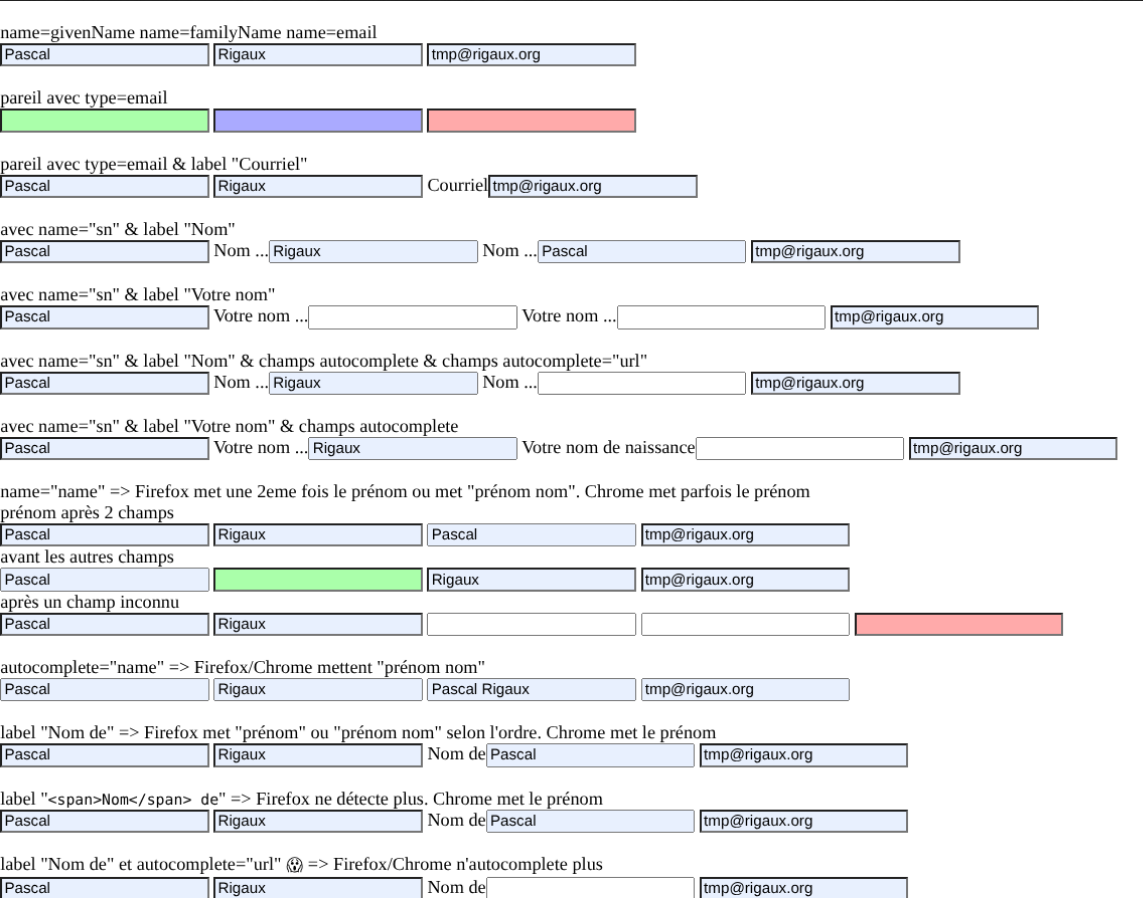
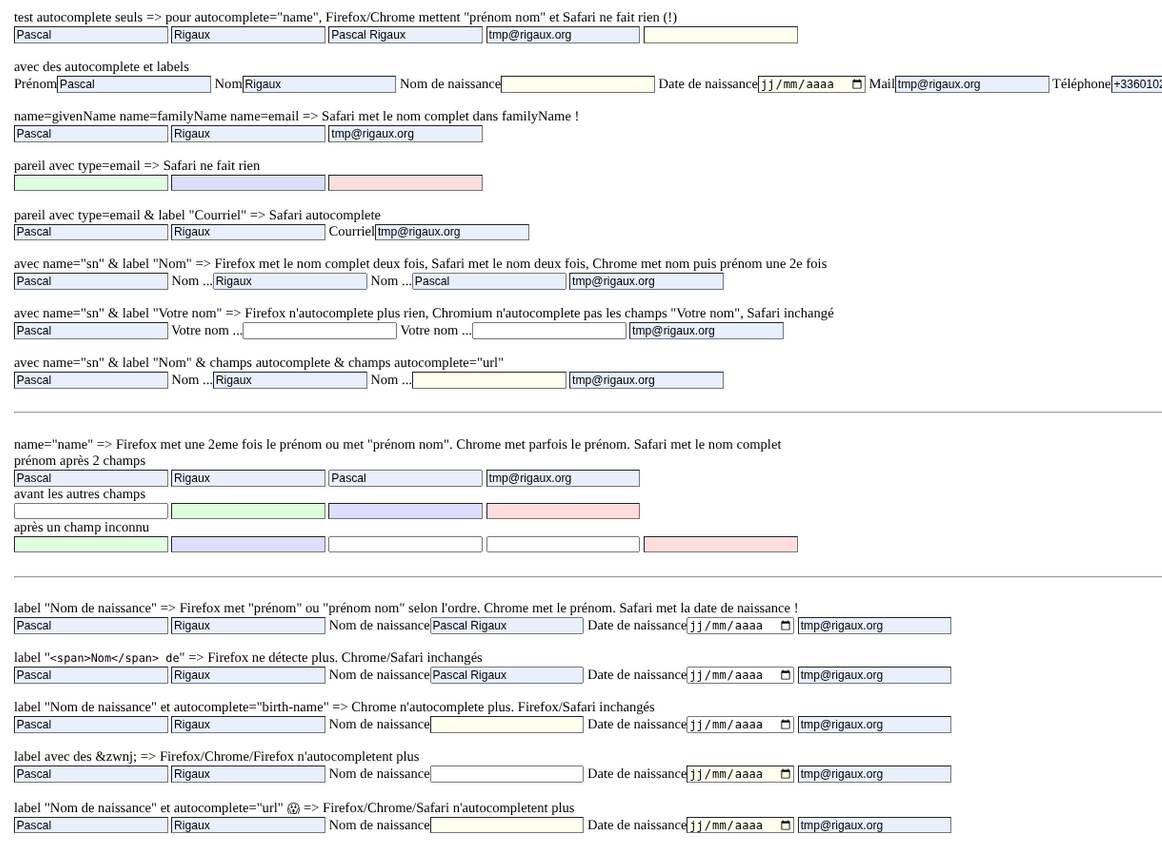
add browser-autofill-birthname

Changed region(s): [[0.0, 0.0, 1.0, 1.0]]

diff --git a/browser-autofill-birthname/test.html b/browser-autofill-birthname/test.html
@@ -2,12 +2,33 @@
 <html>
   <meta http-equiv="Content-Type" content="text/html; charset=utf-8">
     <style>
-        input[name=givenName] { background: #afa }
-        input[name=familyName] { background: #aaf }
-        input[name=email], input[type=email] { background: #faa }
+        html { padding: 1rem; }
+        input[autocomplete] { background: #ffe }
+        input[name=givenName] { background: #dfd }
+        input[name=familyName] { background: #ddf }
+        input[name=email], input[type=email] { background: #fdd }
     </style>
 
-    <br>name=givenName name=familyName name=email<br>
+    <br>test autocomplete seuls => pour autocomplete="name", Firefox/Chrome mettent "prénom nom" et Safari ne fait rien (!)<br>
+    <form>
+        <input name="x1" autocomplete="given-name">
+        <input name="x2" autocomplete="family-name">
+        <input name="x3" autocomplete="name">
+        <input name="x4" autocomplete="email">
+        <input name="x5" autocomplete="bday">
+    </form>
+
+    <br>avec des autocomplete et labels<br>
+    <form>
+        <label>Prénom<input name="givenName" autocomplete="given-name"></label>
+        <label>Nom<input name="familyName" autocomplete="family-name"></label>
+        <label>Nom de naissance<input name="birthName" type="text" autocomplete="birth-name"></label>
+        <label>Date de naissance<input type="date" name="birthDate" autocomplete="bday"></label>
+        <label>Mail<input name="email" type="email" autocomplete="email"></label>
+        <label>Téléphone<input name="phone" autocomplete="tel"></label>
+    </form>
+
+    <br>name=givenName name=familyName name=email => Safari met le nom complet dans familyName !<br>
 
     <form>
         <input name="givenName">
@@ -15,21 +36,21 @@
         <input name="email">
     </form>
 
-    <br>pareil avec type=email<br>
+    <br>pareil avec type=email => Chrome/Safari ne font rien<br>
     <form>
         <input name="givenName">
         <input name="familyName">
         <input name="foo" type="email">
     </form>
 
-    <br>pareil avec type=email & label "Courriel"<br>
+    <br>pareil avec type=email & label "Courriel" => Safari autocomplete<br>
     <form>
         <input name="givenName">
         <input name="familyName">
         <label>Courriel<input name="foo" type="email"></label>
     </form>
 
-    <br>avec name="sn" & label "Nom"<br>
+    <br>avec name="sn" & label "Nom" => Firefox met le nom complet deux fois, Safari met le nom deux fois, Chrome met nom puis prénom une 2e fois<br>
     <form>
         <input name="givenName" autocomplete="given-name">
         <label>Nom ...<input name="sn"></label>
@@ -37,7 +58,7 @@
         <input name="email" autocomplete="email">
     </form>
 
-    <br>avec name="sn" & label "Votre nom"<br>
+    <br>avec name="sn" & label "Votre nom" => Firefox n'autocomplete plus rien, Chromium n'autocomplete pas les champs "Votre nom", Safari inchangé<br>
     <form>
         <input name="givenName" autocomplete="given-name">
         <label>Votre nom ...<input name="sn"></label>
@@ -52,16 +73,10 @@
         <label>Nom ...<input name="xxx" autocomplete="url"></label>
         <input name="email" autocomplete="email">
     </form>
-    
-    <br>avec name="sn" & label "Votre nom" & champs autocomplete<br>
-    <form>
-        <input name="givenName" autocomplete="given-name">
-        <label>Votre nom ...<input name="sn" autocomplete="family-name"></label>
-        <label>Votre nom de naissance<input name="xxx"></label>
-        <input name="email" autocomplete="email">
-    </form>
-    
-    <br>name="name" => Firefox met une 2eme fois le prénom ou met "prénom nom". Chrome met parfois le prénom<br>
+
+    <br><hr>
+
+    <br>name="name" => Firefox met une 2eme fois le prénom ou met "prénom nom". Chrome met parfois le prénom. Safari met le nom complet<br>
     prénom après 2 champs<br>
     <form>
         <input name="givenName">
@@ -85,44 +100,51 @@
         <input name="email">
     </form>
 
-    <br>autocomplete="name" => Firefox/Chrome mettent "prénom nom"<br>
-    <form>
-        <input autocomplete="given-name">
-        <input autocomplete="family-name">
-        <input autocomplete="name">
-        <input autocomplete="email">
-    </form>
+    <br><hr>
 
-    <br>label "Nom de" => Firefox met "prénom" ou "prénom nom" selon l'ordre. Chrome met le prénom<br>
+    <br>label "Nom de naissance" => Firefox met "prénom" ou "prénom nom" selon l'ordre. Chrome met le prénom. Safari met la date de naissance !<br>
     <form>
         <input name="givenName">
         <input name="familyName">
-        <label>Nom de<input name="xxx2"></label>
+        <label>Nom de naissance<input name="xxx2"></label>
+        <label>Date de naissance<input type="date" name="birthDate"></label>
         <input name="email">
     </form>
   
-    <br>label "<tt>&lt;span&gt;Nom&lt;/span&gt; de</tt>" => Firefox ne détecte plus. Chrome met le prénom<br>
+    <br>label "<tt>&lt;span&gt;Nom&lt;/span&gt; de</tt>" => Firefox ne détecte plus. Chrome/Safari inchangés<br>
     <form>
         <input name="givenName">
         <input name="familyName">
-        <label><span>Nom</span> de<input name="xxx2"></label>
+        <label><span>Nom</span> de naissance<input name="xxx2"></label>
+        <label>Date de naissance<input type="date" name="birthDate"></label>
         <input name="email">
     </form>
 
-    <br>label "<tt>&lt;span&gt;Nom&lt;/span&gt; de</tt>" et autocomplete="birth-name" => Firefox/Chrome n'autocomplete plus<br>
+    <br>label "Nom de naissance" et autocomplete="birth-name" => Chrome n'autocomplete plus. Firefox/Safari inchangés<br>
     <form>
         <input name="givenName">
         <input name="familyName">
-        <label><span>Nom</span> de<input name="xxx2" autocomplete="birth-name"></label>
+        <label>Nom de naissance<input name="xxx2" autocomplete="birth-name"></label>
+        <label>Date de naissance<input type="date" name="birthDate"></label>
+        <input name="email">
+    </form>
+  
+    <br>label avec des &amp;zwnj; => Firefox/Chrome/Firefox n'autocompletent plus<br>
+    <form>
+        <input name="givenName">
+        <input name="familyName">
+        <label>N&zwnj;om de n&zwnj;aissance<input name="xxx2"></label>
+        <label>Date de naissance<input type="date" name="birthDate" autocomplete="bday"></label>
         <input name="email">
     </form>
 
-    <br>label "Nom de" et autocomplete="url" 😱 => Firefox/Chrome n'autocomplete plus<br>
+    <br>label "Nom de naissance" et autocomplete="url" 😱 => Firefox/Chrome/Safari n'autocompletent plus<br>
     <form>
         <input name="givenName">
         <input name="familyName">
-        <label>Nom de<input name="xxx2" autocomplete="url"></label>
+        <label>Nom de naissance<input name="xxx2" autocomplete="url"></label>
+        <label>Date de naissance<input type="date" name="birthDate" autocomplete="bday"></label>
         <input name="email">
     </form>  
-    
+
 </html>

diff --git a/browser-autofill-birthname/README.md b/browser-autofill-birthname/README.md
@@ -1,17 +1,24 @@
 Browser address autofill can sometimes do weird things: by default it tries to guess if an `<input>` should be autofilled, using `name` attribute, or `<label>` string.
 
-If `<label>` starts with "Name" (or "Nom" en français), it will autofill as if field has `autocomplete="family-name"` or `autocomplete="given-name"` or `autocomplete="name"`
+If `<label>` starts with "Name" (or "Nom" en français), Chrome/Firefox will autofill as if field has `autocomplete="family-name"` or `autocomplete="given-name"` or `autocomplete="name"`
+
+If `<label>` contains "birth" (or "naissance" en français), Safari will autofill as if field has `autocomplete="bday"` (birth day).
+
+If `<label>` contains "Name" (or "Nom" en français), Safari will autofill as if field has `autocomplete="family-name"` or `autocomplete="name"`
+
 
 * for firstname/lastname, you should use the specific `autocomplete` value
 * for birthname... no good solution:
   * `<input autocomplete="off">` does not work 😭
-  * either ensure the `<label>` does not start with "Name"
+  * either ensure the `<label>` does not contain with "Name" or "birth" 🤪
   * or use a mostly unused `autocomplete` value, for example `autocomplete="url"`
+  * or put `&zwnj;` ("zero width non-joiner") inside the `<label>` words (but beware of `placeholder`s too)
 
-Ref: https://html.spec.whatwg.org/multipage/form-control-infrastructure.html#autofill
+Ref: https://html.spec.whatwg.org/multipage/form-control-infrastructure.html#autofill https://stackoverflow.com/questions/15738259/disabling-chrome-autofill/30976223 https://stackoverflow.com/questions/43058018/how-to-disable-autocomplete-in-address-fields-for-safari
 
 # Tests
 
 * [html test file](test.html)
 * Chromium test : [screenshot](test-chromium.png)
 * Firefox test : [screenshot](test-firefox.png)
+* Safari test : [screenshot](test-safari.png)
